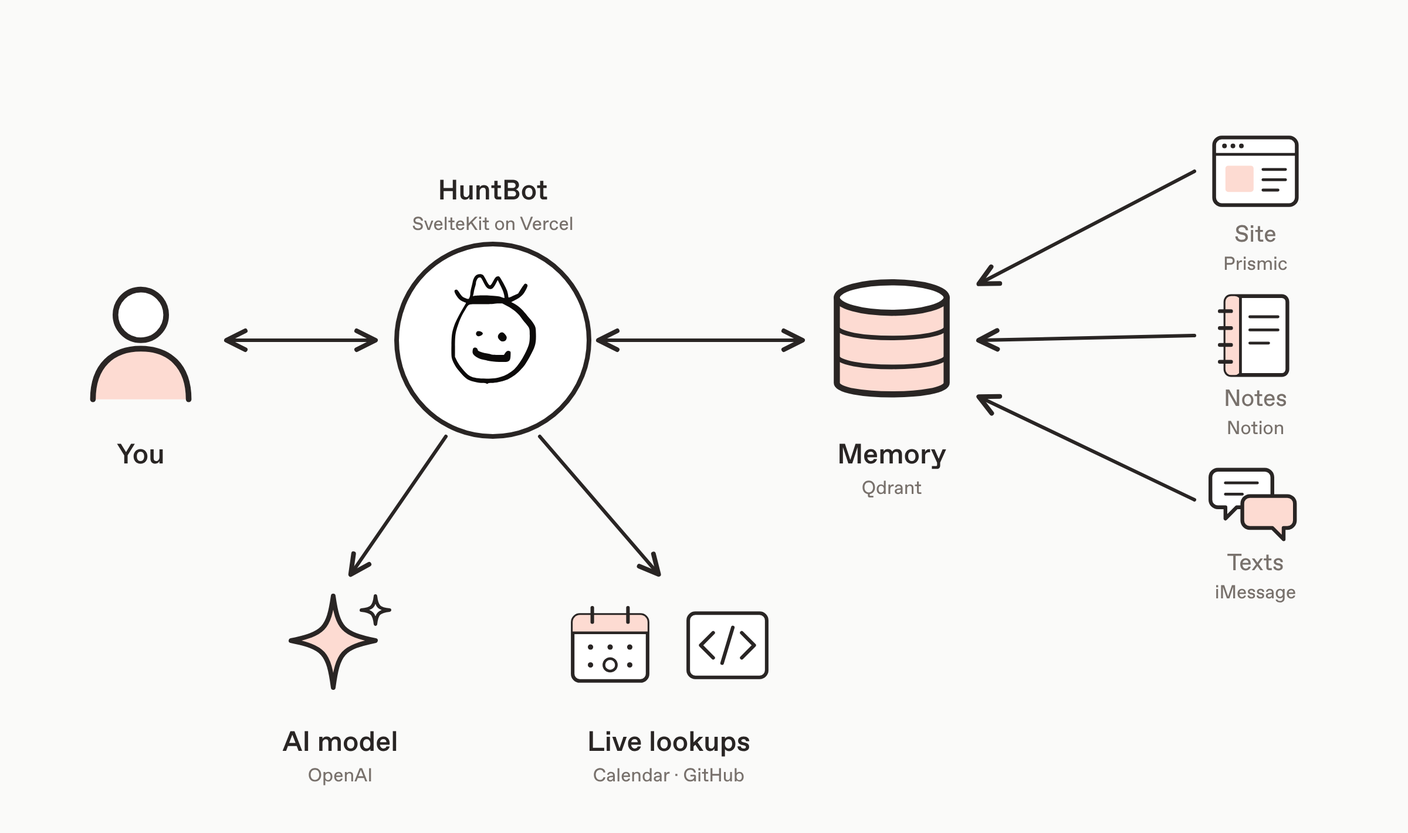
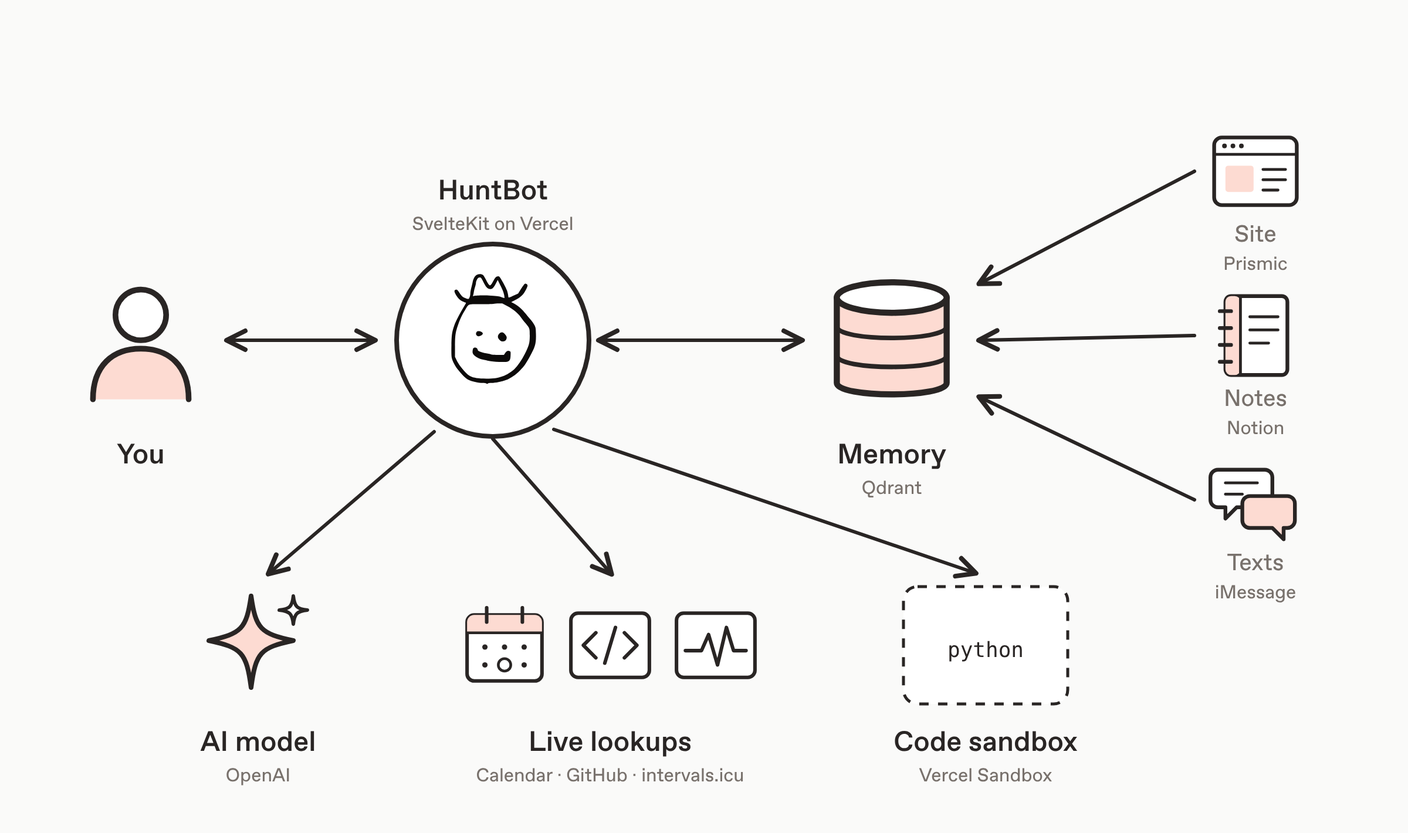
Update Building HuntBot figures for the training tools
- system-map: add intervals.icu to live lookups and the code sandbox.
- step-1-lanes: the standard and deep lanes now run gpt-6.1-sol.
- timeline: count from the full history (the earlier counts came from a
  shallow clone and missed December 2023 and January 2024) and add
  October 2026.
- analysis: new figure showing a training question run as Python in
  the sandbox.

Claude-Session: https://claude.ai/code/session_01UsppEW3vXebrcYxFXbYqoU

diff --git a/docs/site-story/timeline.html b/docs/site-story/timeline.html
@@ -29,7 +29,7 @@ svg { display: block; font-family: Favorit, sans-serif; }
 	</marker>
 </defs>
 
-<path d="M106.42857142857142,400 v-50.12903225806451 a6,6 0 0 1 6,-6 h6 a6,6 0 0 1 6,6 v50.12903225806451 z" fill="#ad6e5e" /><path d="M136.7142857142857,400 v-56.36559139784946 a6,6 0 0 1 6,-6 h6 a6,6 0 0 1 6,6 v56.36559139784946 z" fill="#ad6e5e" /><path d="M167.0,400 v-28.3010752688172 a6,6 0 0 1 6,-6 h6 a6,6 0 0 1 6,6 v28.3010752688172 z" fill="#ad6e5e" /><path d="M742.4285714285713,400 v--1 a6,6 0 0 1 6,-6 h6 a6,6 0 0 1 6,6 v-1 z" fill="#ad6e5e" /><path d="M863.5714285714286,400 v-284.0 a6,6 0 0 1 6,-6 h6 a6,6 0 0 1 6,6 v284.0 z" fill="#ad6e5e" /><path d="M893.8571428571428,400 v-6.473118279569892 a6,6 0 0 1 6,-6 h6 a6,6 0 0 1 6,6 v6.473118279569892 z" fill="#ad6e5e" /><path d="M1014.9999999999999,400 v-68.83870967741936 a6,6 0 0 1 6,-6 h6 a6,6 0 0 1 6,6 v68.83870967741936 z" fill="#ad6e5e" /><path d="M1075.5714285714287,400 v-62.6021505376344 a6,6 0 0 1 6,-6 h6 a6,6 0 0 1 6,6 v62.6021505376344 z" fill="#ad6e5e" /><text x="872.5714285714286" y="96.0" text-anchor="middle" class="small">93 commits</text><line x1="70" y1="400" x2="1130" y2="400" stroke="#292524" stroke-width="3" /><path d="M103.28571428571428,418 v10 H188.14285714285714 v-10" fill="none" stroke="#292524" stroke-width="2.5" /><text x="145.71428571428572" y="462" text-anchor="middle" class="label">Launch</text><path d="M194.14285714285714,418 v10 H733.2857142857142 v-10" fill="none" stroke="#a8a29e" stroke-width="2.5" /><text x="463.71428571428567" y="462" text-anchor="middle" class="note">Quiet stretch</text><path d="M860.4285714285714,418 v10 H914.9999999999999 v-10" fill="none" stroke="#292524" stroke-width="2.5" /><text x="887.7142857142857" y="462" text-anchor="middle" class="label">Rebuild</text><path d="M1011.8571428571428,418 v10 H1096.7142857142858 v-10" fill="none" stroke="#292524" stroke-width="2.5" /><text x="1054.2857142857142" y="462" text-anchor="middle" class="label">Tools + speed</text><line x1="70.0" y1="400" x2="70.0" y2="390" stroke="#292524" stroke-width="3" /><text x="76.0" y="512" text-anchor="start" class="small">2024</text><line x1="433.42857142857144" y1="400" x2="433.42857142857144" y2="390" stroke="#292524" stroke-width="3" /><text x="439.42857142857144" y="512" text-anchor="start" class="small">2025</text><line x1="796.8571428571429" y1="400" x2="796.8571428571429" y2="390" stroke="#292524" stroke-width="3" /><text x="802.8571428571429" y="512" text-anchor="start" class="small">2026</text><circle cx="448.5714285714286" cy="336" r="46" class="ink paper" /><image href="../../src/lib/assets/huntbotlogo.svg" x="395.67142857142863" y="280.8" width="105.8" height="105.8" /><text x="502.5714285714286" y="290" class="label" style="font-size:24px;fill:#a8a29e">z</text><text x="522.5714285714287" y="262" class="label" style="font-size:30px;fill:#a8a29e">z</text><text x="546.5714285714287" y="230" class="label" style="font-size:38px;fill:#a8a29e">z</text>
+<path d="M75.72222222222223,400 v-231.5 a6,6 0 0 1 6,-6 h6 a6,6 0 0 1 6,6 v231.5 z" fill="#ad6e5e" /><path d="M105.16666666666666,400 v-284.0 a6,6 0 0 1 6,-6 h6 a6,6 0 0 1 6,6 v284.0 z" fill="#ad6e5e" /><path d="M134.61111111111111,400 v-41.5 a6,6 0 0 1 6,-6 h6 a6,6 0 0 1 6,6 v41.5 z" fill="#ad6e5e" /><path d="M164.05555555555554,400 v-69.0 a6,6 0 0 1 6,-6 h6 a6,6 0 0 1 6,6 v69.0 z" fill="#ad6e5e" /><path d="M193.5,400 v-21.5 a6,6 0 0 1 6,-6 h6 a6,6 0 0 1 6,6 v21.5 z" fill="#ad6e5e" /><path d="M752.9444444444443,400 v--1 a6,6 0 0 1 6,-6 h6 a6,6 0 0 1 6,6 v-1 z" fill="#ad6e5e" /><path d="M870.7222222222222,400 v-226.5 a6,6 0 0 1 6,-6 h6 a6,6 0 0 1 6,6 v226.5 z" fill="#ad6e5e" /><path d="M900.1666666666665,400 v-4.0 a6,6 0 0 1 6,-6 h6 a6,6 0 0 1 6,6 v4.0 z" fill="#ad6e5e" /><path d="M1017.9444444444443,400 v-54.0 a6,6 0 0 1 6,-6 h6 a6,6 0 0 1 6,6 v54.0 z" fill="#ad6e5e" /><path d="M1076.8333333333333,400 v-161.5 a6,6 0 0 1 6,-6 h6 a6,6 0 0 1 6,6 v161.5 z" fill="#ad6e5e" /><text x="114.16666666666666" y="96.0" text-anchor="middle" class="small">116 commits</text><line x1="70" y1="400" x2="1130" y2="400" stroke="#292524" stroke-width="3" /><path d="M73.0,418 v10 H214.22222222222223 v-10" fill="none" stroke="#292524" stroke-width="2.5" /><text x="143.61111111111111" y="462" text-anchor="middle" class="label">Build + launch</text><path d="M220.22222222222223,418 v10 H744.2222222222221 v-10" fill="none" stroke="#a8a29e" stroke-width="2.5" /><text x="482.2222222222222" y="462" text-anchor="middle" class="note">Quiet stretch</text><path d="M868.0,418 v10 H920.8888888888887 v-10" fill="none" stroke="#292524" stroke-width="2.5" /><text x="894.4444444444443" y="462" text-anchor="middle" class="label">Rebuild</text><path d="M1015.2222222222222,418 v10 H1097.5555555555554 v-10" fill="none" stroke="#292524" stroke-width="2.5" /><text x="1056.3888888888887" y="462" text-anchor="middle" class="label">Tools + data</text><line x1="99.44444444444443" y1="400" x2="99.44444444444443" y2="390" stroke="#292524" stroke-width="3" /><text x="105.44444444444443" y="512" text-anchor="start" class="small">2024</text><line x1="452.77777777777777" y1="400" x2="452.77777777777777" y2="390" stroke="#292524" stroke-width="3" /><text x="458.77777777777777" y="512" text-anchor="start" class="small">2025</text><line x1="806.1111111111111" y1="400" x2="806.1111111111111" y2="390" stroke="#292524" stroke-width="3" /><text x="812.1111111111111" y="512" text-anchor="start" class="small">2026</text><circle cx="467.5" cy="336" r="46" class="ink paper" /><image href="../../src/lib/assets/huntbotlogo.svg" x="414.6" y="280.8" width="105.8" height="105.8" /><text x="521.5" y="290" class="label" style="font-size:24px;fill:#a8a29e">z</text><text x="541.5" y="262" class="label" style="font-size:30px;fill:#a8a29e">z</text><text x="565.5" y="230" class="label" style="font-size:38px;fill:#a8a29e">z</text>
 </svg>
 </body>
 </html>

diff --git a/docs/site-story/system-map.html b/docs/site-story/system-map.html
@@ -52,19 +52,21 @@ svg { display: block; font-family: Favorit, sans-serif; }
 		<line x1="44" y1="58" x2="64" y2="58" class="ink thin" /></g><text x="1070" y="346" text-anchor="middle" class="note">Notes</text><text x="1070" y="370" text-anchor="middle" class="small">Notion</text><line x1="1018" y1="286" x2="836" y2="290.0" stroke="#292524" stroke-width="3" stroke-linecap="round" marker-end="url(#head)" /><g transform="translate(1030.0,386.0) scale(0.8)">
 		<path d="M10,18 h50 a8,8 0 0 1 8,8 v24 a8,8 0 0 1 -8,8 h-30 l-12,12 v-12 h-8 a8,8 0 0 1 -8,-8 v-24 a8,8 0 0 1 8,-8 z" class="ink paper" />
 		<path d="M44,46 h40 a8,8 0 0 1 8,8 v18 a8,8 0 0 1 -8,8 h-4 v12 l-12,-12 h-24 a8,8 0 0 1 -8,-8 v-18 a8,8 0 0 1 8,-8 z" class="ink fill" />
-		<line x1="18" y1="32" x2="52" y2="32" class="ink thin" /><line x1="18" y1="44" x2="36" y2="44" class="ink thin" /></g><text x="1070" y="486" text-anchor="middle" class="note">Texts</text><text x="1070" y="510" text-anchor="middle" class="small">iMessage</text><line x1="1018" y1="426" x2="836" y2="339.0" stroke="#292524" stroke-width="3" stroke-linecap="round" marker-end="url(#head)" /><line x1="380" y1="372" x2="300" y2="488" stroke="#292524" stroke-width="3" stroke-linecap="round" marker-end="url(#head)" /><line x1="460" y1="372" x2="560" y2="488" stroke="#292524" stroke-width="3" stroke-linecap="round" marker-end="url(#head)" /><g transform="translate(240.0,500.0) scale(1.0)">
+		<line x1="18" y1="32" x2="52" y2="32" class="ink thin" /><line x1="18" y1="44" x2="36" y2="44" class="ink thin" /></g><text x="1070" y="486" text-anchor="middle" class="note">Texts</text><text x="1070" y="510" text-anchor="middle" class="small">iMessage</text><line x1="1018" y1="426" x2="836" y2="339.0" stroke="#292524" stroke-width="3" stroke-linecap="round" marker-end="url(#head)" /><line x1="370" y1="368" x2="230" y2="488" stroke="#292524" stroke-width="3" stroke-linecap="round" marker-end="url(#head)" /><line x1="420" y1="374" x2="520" y2="488" stroke="#292524" stroke-width="3" stroke-linecap="round" marker-end="url(#head)" /><line x1="472" y1="366" x2="830" y2="488" stroke="#292524" stroke-width="3" stroke-linecap="round" marker-end="url(#head)" /><g transform="translate(170.0,500.0) scale(1.0)">
 		<path d="M44,8 C48,36 52,40 80,46 C52,52 48,56 44,86 C40,56 36,52 8,46 C36,40 40,36 44,8 z" class="ink fill" />
-		<path d="M80,8 C81,17 83,19 92,20 C83,21 81,23 80,32 C79,23 77,21 68,20 C77,19 79,17 80,8 z" class="ink thin paper" /></g><text x="290" y="640" text-anchor="middle" class="label">AI model</text><text x="290" y="666" text-anchor="middle" class="small">OpenAI</text><g transform="translate(482.0,512.0) scale(0.76)">
+		<path d="M80,8 C81,17 83,19 92,20 C83,21 81,23 80,32 C79,23 77,21 68,20 C77,19 79,17 80,8 z" class="ink thin paper" /></g><text x="220" y="640" text-anchor="middle" class="label">AI model</text><text x="220" y="666" text-anchor="middle" class="small">OpenAI</text><g transform="translate(392.0,512.0) scale(0.76)">
 		<rect x="8" y="16" width="84" height="74" rx="8" class="ink paper" />
 		<path d="M8,36 v-12 a8,8 0 0 1 8,-8 h68 a8,8 0 0 1 8,8 v12 z" class="fill" />
 		<line x1="8" y1="36" x2="92" y2="36" class="ink thin" />
 		<line x1="30" y1="8" x2="30" y2="24" class="ink" /><line x1="70" y1="8" x2="70" y2="24" class="ink" />
 		<circle cx="28" cy="52" r="3" fill="#292524" /><circle cx="50" cy="52" r="3" fill="#292524" /><circle cx="72" cy="52" r="3" fill="#292524" />
-		<circle cx="28" cy="72" r="3" fill="#292524" /><circle cx="50" cy="72" r="7" class="ink thin" stroke="#ad6e5e" /><circle cx="72" cy="72" r="3" fill="#292524" /></g><g transform="translate(582.0,512.0) scale(0.76)">
+		<circle cx="28" cy="72" r="3" fill="#292524" /><circle cx="50" cy="72" r="7" class="ink thin" stroke="#ad6e5e" /><circle cx="72" cy="72" r="3" fill="#292524" /></g><g transform="translate(482.0,512.0) scale(0.76)">
 		<rect x="6" y="14" width="88" height="72" rx="8" class="ink paper" />
 		<polyline points="34,36 20,50 34,64" class="ink" />
 		<polyline points="66,36 80,50 66,64" class="ink" />
-		<line x1="56" y1="30" x2="44" y2="70" class="ink" stroke="#ad6e5e" /></g><text x="570" y="640" text-anchor="middle" class="label">Live lookups</text><text x="570" y="666" text-anchor="middle" class="small">Calendar · GitHub</text>
+		<line x1="56" y1="30" x2="44" y2="70" class="ink" stroke="#ad6e5e" /></g><g transform="translate(572.0,512.0) scale(0.76)">
+		<rect x="6" y="14" width="88" height="72" rx="8" class="ink paper" />
+		<polyline points="16,56 34,56 42,38 52,72 62,30 70,56 84,56" class="ink" stroke="#ad6e5e" /></g><text x="520" y="640" text-anchor="middle" class="label">Live lookups</text><text x="520" y="666" text-anchor="middle" class="small">Calendar · GitHub · intervals.icu</text><rect x="770" y="500" width="140" height="100" rx="12" fill="#fff" stroke="#292524" stroke-width="2.5" stroke-dasharray="8 8" /><text x="840" y="560" text-anchor="middle" class="mono">python</text><text x="840" y="640" text-anchor="middle" class="label">Code sandbox</text><text x="840" y="666" text-anchor="middle" class="small">Vercel Sandbox</text>
 </svg>
 </body>
 </html>

diff --git a/docs/site-story/analysis.html b/docs/site-story/analysis.html
@@ -1,0 +1,39 @@
+<!doctype html>
+<html>
+<head>
+<meta charset="utf-8" />
+<!-- Generated by build.py. Edit that, not this. -->
+<style>
+@font-face { font-family: Favorit; src: url('../../src/lib/assets/fonts/FavoritStd-Medium.otf'); font-weight: 500; }
+@font-face { font-family: Favorit; src: url('../../src/lib/assets/fonts/FavoritStd-Regular.otf'); font-weight: 400; }
+html, body { margin: 0; background: #fafaf9; }
+svg { display: block; font-family: Favorit, sans-serif; }
+.ink { fill: none; stroke: #292524; stroke-width: 4; stroke-linecap: round; stroke-linejoin: round; }
+.thin { stroke-width: 3; }
+.fill { fill: #fddbd2; }
+.paper { fill: #ffffff; }
+.dash { stroke-dasharray: 2 12; }
+.title { font-size: 28px; font-weight: 500; fill: #292524; }
+.label { font-size: 24px; font-weight: 500; fill: #292524; }
+.note { font-size: 20px; fill: #78716c; }
+.small { font-size: 16px; fill: #78716c; }
+.mono { font-family: ui-monospace, 'DejaVu Sans Mono', monospace; font-size: 18px; fill: #292524; }
+</style>
+</head>
+<body>
+<svg width="1200" height="450" viewBox="0 0 1200 450" xmlns="http://www.w3.org/2000/svg">
+
+<defs>
+	<marker id="head" viewBox="0 0 12 12" refX="9" refY="6" markerWidth="8" markerHeight="8" orient="auto-start-reverse">
+		<path d="M2,2 L10,6 L2,10" fill="none" stroke="#292524" stroke-width="2" stroke-linecap="round" stroke-linejoin="round" />
+	</marker>
+</defs>
+
+<text x="110" y="110" text-anchor="middle" class="label">Model</text><g transform="translate(60.0,180.0) scale(1.0)">
+		<path d="M44,8 C48,36 52,40 80,46 C52,52 48,56 44,86 C40,56 36,52 8,46 C36,40 40,36 44,8 z" class="ink fill" />
+		<path d="M80,8 C81,17 83,19 92,20 C83,21 81,23 80,32 C79,23 77,21 68,20 C77,19 79,17 80,8 z" class="ink thin paper" /></g><line x1="170" y1="230" x2="206" y2="230" stroke="#292524" stroke-width="3" stroke-linecap="round" marker-end="url(#head)" /><text x="362" y="110" text-anchor="middle" class="label">Python script</text><rect x="214" y="166" width="296" height="128" rx="12" fill="#fff" stroke="#292524" stroke-width="2.5" /><text x="236" y="204" text-anchor="start" class="mono">import csv</text><text x="236" y="234" text-anchor="start" class="mono">rows = csv.DictReader(</text><text x="236" y="264" text-anchor="start" class="mono" xml:space="preserve">  open('weekly.csv'))</text><line x1="518" y1="230" x2="550" y2="230" stroke="#292524" stroke-width="3" stroke-linecap="round" marker-end="url(#head)" /><text x="725.0" y="110" text-anchor="middle" class="label">Sandbox</text><rect x="560" y="138" width="330" height="184" rx="16" fill="none" stroke="#292524" stroke-width="2.5" stroke-dasharray="8 8" /><rect x="590" y="164" width="180" height="36" rx="18.0" fill="#fff" stroke="#292524" stroke-width="2" /><text x="680.0" y="188.0" text-anchor="middle" class="small">weekly.csv</text><rect x="590" y="212" width="180" height="36" rx="18.0" fill="#fff" stroke="#292524" stroke-width="2" /><text x="680.0" y="236.0" text-anchor="middle" class="small">activities.csv</text><rect x="590" y="260" width="180" height="36" rx="18.0" fill="#fddbd2" stroke="#292524" stroke-width="2" /><text x="680.0" y="284.0" text-anchor="middle" class="small">wellness.csv</text><text x="830" y="236" text-anchor="middle" class="small">+ API</text><line x1="898" y1="190" x2="1004" y2="190" stroke="#292524" stroke-width="3" stroke-linecap="round" marker-start="url(#head)" marker-end="url(#head)" /><g transform="translate(1030.0,140.0) scale(1.0)">
+		<rect x="6" y="14" width="88" height="72" rx="8" class="ink paper" />
+		<polyline points="16,56 34,56 42,38 52,72 62,30 70,56 84,56" class="ink" stroke="#ad6e5e" /></g><text x="1080" y="270" text-anchor="middle" class="label">intervals.icu</text><text x="1080" y="296" text-anchor="middle" class="small">read-only, his data</text><path d="M725.0,330 V366 Q725.0,380 711.0,380 H124 Q110,380 110,366 V292" fill="none" stroke="#292524" stroke-width="3" stroke-linecap="round" marker-end="url(#head)" /><text x="560" y="420" text-anchor="middle" class="note">Only what the script prints goes back to the model</text>
+</svg>
+</body>
+</html>

diff --git a/docs/site-story/step-1-lanes.html b/docs/site-story/step-1-lanes.html
@@ -32,7 +32,7 @@ svg { display: block; font-family: Favorit, sans-serif; }
 <text x="50" y="92" text-anchor="start" class="title">1  Pick a lane</text><g transform="translate(85.0,265.0) scale(1.3)">
 		<path d="M12,12 h76 a10,10 0 0 1 10,10 v40 a10,10 0 0 1 -10,10 h-46 l-18,16 v-16 h-12 a10,10 0 0 1 -10,-10 v-40 a10,10 0 0 1 10,-10 z" class="ink paper" />
 		<path d="M41,32 c0,-8 18,-10 18,0 c0,7 -9,7 -9,15" class="ink" stroke="#ad6e5e" />
-		<circle cx="50" cy="58" r="3" fill="#ad6e5e" /></g><line x1="232" y1="330" x2="412" y2="200" stroke="#292524" stroke-width="3" stroke-linecap="round" marker-end="url(#head)" /><rect x="420" y="154" width="430" height="92" rx="46" fill="#fff" stroke="#292524" stroke-width="2.5" /><rect x="458" y="204" width="8" height="10" rx="2" fill="#292524" /><rect x="471" y="195" width="8" height="19" rx="2" fill="#d6d3d1" /><rect x="484" y="186" width="8" height="28" rx="2" fill="#d6d3d1" /><text x="518" y="198" text-anchor="start" class="label">quick</text><text x="518" y="226" text-anchor="start" class="small">gpt-6-luna</text><line x1="232" y1="330" x2="412" y2="330" stroke="#292524" stroke-width="3" stroke-linecap="round" marker-end="url(#head)" /><rect x="420" y="284" width="430" height="92" rx="46" fill="#fddbd2" stroke="#292524" stroke-width="2.5" /><rect x="458" y="334" width="8" height="10" rx="2" fill="#292524" /><rect x="471" y="325" width="8" height="19" rx="2" fill="#292524" /><rect x="484" y="316" width="8" height="28" rx="2" fill="#d6d3d1" /><text x="518" y="328" text-anchor="start" class="label">standard</text><text x="518" y="356" text-anchor="start" class="small">gpt-6-astra, low effort</text><line x1="232" y1="330" x2="412" y2="460" stroke="#292524" stroke-width="3" stroke-linecap="round" marker-end="url(#head)" /><rect x="420" y="414" width="430" height="92" rx="46" fill="#fff" stroke="#292524" stroke-width="2.5" /><rect x="458" y="464" width="8" height="10" rx="2" fill="#292524" /><rect x="471" y="455" width="8" height="19" rx="2" fill="#292524" /><rect x="484" y="446" width="8" height="28" rx="2" fill="#292524" /><text x="518" y="458" text-anchor="start" class="label">deep</text><text x="518" y="486" text-anchor="start" class="small">gpt-6-astra, medium effort</text>
+		<circle cx="50" cy="58" r="3" fill="#ad6e5e" /></g><line x1="232" y1="330" x2="412" y2="200" stroke="#292524" stroke-width="3" stroke-linecap="round" marker-end="url(#head)" /><rect x="420" y="154" width="430" height="92" rx="46" fill="#fff" stroke="#292524" stroke-width="2.5" /><rect x="458" y="204" width="8" height="10" rx="2" fill="#292524" /><rect x="471" y="195" width="8" height="19" rx="2" fill="#d6d3d1" /><rect x="484" y="186" width="8" height="28" rx="2" fill="#d6d3d1" /><text x="518" y="198" text-anchor="start" class="label">quick</text><text x="518" y="226" text-anchor="start" class="small">gpt-6-luna</text><line x1="232" y1="330" x2="412" y2="330" stroke="#292524" stroke-width="3" stroke-linecap="round" marker-end="url(#head)" /><rect x="420" y="284" width="430" height="92" rx="46" fill="#fddbd2" stroke="#292524" stroke-width="2.5" /><rect x="458" y="334" width="8" height="10" rx="2" fill="#292524" /><rect x="471" y="325" width="8" height="19" rx="2" fill="#292524" /><rect x="484" y="316" width="8" height="28" rx="2" fill="#d6d3d1" /><text x="518" y="328" text-anchor="start" class="label">standard</text><text x="518" y="356" text-anchor="start" class="small">gpt-6.1-sol, low effort</text><line x1="232" y1="330" x2="412" y2="460" stroke="#292524" stroke-width="3" stroke-linecap="round" marker-end="url(#head)" /><rect x="420" y="414" width="430" height="92" rx="46" fill="#fff" stroke="#292524" stroke-width="2.5" /><rect x="458" y="464" width="8" height="10" rx="2" fill="#292524" /><rect x="471" y="455" width="8" height="19" rx="2" fill="#292524" /><rect x="484" y="446" width="8" height="28" rx="2" fill="#292524" /><text x="518" y="458" text-anchor="start" class="label">deep</text><text x="518" y="486" text-anchor="start" class="small">gpt-6.1-sol, medium effort</text>
 </svg>
 </body>
 </html>

diff --git a/docs/site-story/build.py b/docs/site-story/build.py
@@ -21,17 +21,21 @@ MUD = "#ad6e5e"
 MUD_LIGHT = "#fddbd2"
 PAPER = "#fafaf9"
 
-# Commits per month, from:
-#   git log --format='%ad' --date=format:'%Y-%m' | sort | uniq -c
+# Commits per month on main, merges included, from:
+#   git log origin/main --format='%ad' --date=format:'%Y-%m' | sort | uniq -c
+# Cloud sessions clone shallowly, so run `git fetch --unshallow origin main` first or the early
+# months come out short.
 COMMITS = {
-	"2024-02": 18,
-	"2024-03": 20,
+	"2023-12": 95,
+	"2024-01": 116,
+	"2024-02": 19,
+	"2024-03": 30,
 	"2024-04": 11,
 	"2025-11": 1,
 	"2026-03": 93,
 	"2026-04": 4,
 	"2026-08": 24,
-	"2026-10": 22,
+	"2026-10": 67,
 }
 
 DEFS = f"""
@@ -150,6 +154,9 @@ ICONS = {
 		<path d="M50,6 L94,50 L50,94 L6,50 Z" class="ink paper" />
 		<path d="M41,38 c0,-8 18,-10 18,0 c0,7 -9,7 -9,15" class="ink" stroke="{mud}" />
 		<circle cx="50" cy="65" r="3" fill="{mud}" />""",
+	"pulse": """
+		<rect x="6" y="14" width="88" height="72" rx="8" class="ink paper" />
+		<polyline points="16,56 34,56 42,38 52,72 62,30 70,56 84,56" class="ink" stroke="{mud}" />""",
 	"blocks": """
 		<rect x="8" y="8" width="84" height="56" rx="6" class="ink paper" />
 		<line x1="20" y1="24" x2="78" y2="24" class="ink thin" /><line x1="20" y1="36" x2="78" y2="36" class="ink thin" />
@@ -254,15 +261,21 @@ def system_map():
 		parts.append(line(1018, y - 14, 836, 290 + (y - 300) * 0.35))
 	# What HuntBot uses directly, below it
 	parts += [
-		line(380, 372, 300, 488),
-		line(460, 372, 560, 488),
-		icon("sparkle", 290, 550, 100),
-		text(290, 640, "AI model"),
-		text(290, 666, "OpenAI", cls="small"),
-		icon("calendar", 520, 550, 76),
-		icon("code", 620, 550, 76),
-		text(570, 640, "Live lookups"),
-		text(570, 666, "Calendar · GitHub", cls="small"),
+		line(370, 368, 230, 488),
+		line(420, 374, 520, 488),
+		line(472, 366, 830, 488),
+		icon("sparkle", 220, 550, 100),
+		text(220, 640, "AI model"),
+		text(220, 666, "OpenAI", cls="small"),
+		icon("calendar", 430, 550, 76),
+		icon("code", 520, 550, 76),
+		icon("pulse", 610, 550, 76),
+		text(520, 640, "Live lookups"),
+		text(520, 666, "Calendar · GitHub · intervals.icu", cls="small"),
+		f'<rect x="770" y="500" width="140" height="100" rx="12" fill="#fff" stroke="{INK}" stroke-width="2.5" stroke-dasharray="8 8" />',
+		text(840, 560, "python", cls="mono"),
+		text(840, 640, "Code sandbox"),
+		text(840, 666, "Vercel Sandbox", cls="small"),
 	]
 	return page(1200, 710, "".join(parts))
 
@@ -322,7 +335,7 @@ def slide(title, body):
 
 def slide_lanes():
 	parts = [icon("ask", 150, 330, 130)]
-	lanes = [("quick", 1, "gpt-6-luna"), ("standard", 2, "gpt-6-astra, low effort"), ("deep", 3, "gpt-6-astra, medium effort")]
+	lanes = [("quick", 1, "gpt-6-luna"), ("standard", 2, "gpt-6.1-sol, low effort"), ("deep", 3, "gpt-6.1-sol, medium effort")]
 	for k, (lane, bars, model) in enumerate(lanes):
 		y = 200 + k * 130
 		fill = MUD_LIGHT if lane == "standard" else "#fff"
@@ -492,11 +505,45 @@ def tool_loop():
 	return page(1200, 410, "".join(parts))
 
 
+# ---------------------------------------------------------------- training analysis
+
+
+def analysis():
+	y = 230
+	sx, sw = 560, 330  # the sandbox
+	parts = [
+		text(110, 110, "Model"),
+		icon("sparkle", 110, y, 100),
+		line(170, y, 206, y),
+		text(362, 110, "Python script"),
+		f'<rect x="214" y="{y - 64}" width="296" height="128" rx="12" fill="#fff" stroke="{INK}" stroke-width="2.5" />',
+		text(236, y - 26, "import csv", cls="mono", anchor="start"),
+		text(236, y + 4, "rows = csv.DictReader(", cls="mono", anchor="start"),
+		text(236, y + 34, "  open('weekly.csv'))", cls="mono", anchor="start", extra=' xml:space="preserve"'),
+		line(518, y, sx - 10, y),
+		# The sandbox: preloaded files inside, network shut except one host
+		text(sx + sw / 2, 110, "Sandbox"),
+		f'<rect x="{sx}" y="{y - 92}" width="{sw}" height="184" rx="16" fill="none" stroke="{INK}" stroke-width="2.5" stroke-dasharray="8 8" />',
+		pill(sx + 30, y - 66, 180, 36, "weekly.csv"),
+		pill(sx + 30, y - 18, 180, 36, "activities.csv"),
+		pill(sx + 30, y + 30, 180, 36, "wellness.csv", fill="mud"),
+		text(sx + 270, y + 6, "+ API", cls="small"),
+		line(sx + sw + 8, y - 40, 1004, y - 40, both=True),
+		icon("pulse", 1080, y - 40, 100),
+		text(1080, y + 40, "intervals.icu"),
+		text(1080, y + 66, "read-only, his data", cls="small"),
+		# Only what the script prints goes back
+		f'<path d="M{sx + sw / 2},{y + 100} V{y + 136} Q{sx + sw / 2},{y + 150} {sx + sw / 2 - 14},{y + 150} H124 Q110,{y + 150} 110,{y + 136} V{y + 62}" fill="none" stroke="{INK}" stroke-width="3" stroke-linecap="round" marker-end="url(#head)" />',
+		text(560, y + 190, "Only what the script prints goes back to the model", cls="note"),
+	]
+	return page(1200, 450, "".join(parts))
+
+
 # ---------------------------------------------------------------- timeline
 
 
 def timeline():
-	months = [(y, m) for y in (2024, 2025, 2026) for m in range(1, 13)][:35]  # Jan 2024 to Nov 2026
+	months = [(2023, 12)] + [(y, m) for y in (2024, 2025, 2026) for m in range(1, 13)][:35]  # Dec 2023 to Nov 2026
 	x0, x1, base, top = 70, 1130, 400, 110
 	step_w = (x1 - x0) / len(months)
 	scale = (base - top) / max(COMMITS.values())
@@ -522,10 +569,10 @@ def timeline():
 			+ text((a + b) / 2, base + 62, label, cls="note" if muted else "label")
 		)
 
-	parts.append(era("2024-02", "2024-04", "Launch"))
+	parts.append(era("2023-12", "2024-04", "Build + launch"))
 	parts.append(era("2024-05", "2025-10", "Quiet stretch", muted=True))
 	parts.append(era("2026-03", "2026-04", "Rebuild"))
-	parts.append(era("2026-08", "2026-10", "Tools + speed"))
+	parts.append(era("2026-08", "2026-10", "Tools + data"))
 
 	for year in (2024, 2025, 2026):
 		x = mx(f"{year}-01") - step_w / 2
@@ -550,6 +597,7 @@ for name, build in {
 	"step-5-check": slide_check,
 	"hyde": hyde,
 	"tool-loop": tool_loop,
+	"analysis": analysis,
 	"timeline": timeline,
 }.items():
 	(HERE / f"{name}.html").write_text(build())

diff --git a/docs/site-story/README.md b/docs/site-story/README.md
@@ -17,6 +17,7 @@ of a few words. Explanations belong in the post, not the image.
 | `step-1-lanes` … `step-5-check` | Carousel slides, one small concept per pipeline step |
 | `hyde` | Searching with the question vs. with a HyDE draft |
 | `tool-loop` | How a tool call works |
+| `analysis` | How a training question runs as Python in the sandbox |
 | `timeline` | Commits per month, with each era marked |
 
 Slides are 3:2 so the page's carousel shows them whole on desktop; mobile trims the top
@@ -25,7 +26,7 @@ and bottom a little, so keep slide content between y=60 and y=540.
 ## Updating
 
 1. Edit `build.py`. For the timeline, update `COMMITS` (the command to get the
-   counts is in the file).
+   counts is in the file; unshallow the clone first).
 2. Run `./render.sh` (pass a Chromium path if `chromium` isn't on your PATH). It
    renders every `.html` file at 2x into a PNG next to it, sized from its `<svg>`. Needs Python with Pillow.
 3. Upload the new PNG to Prismic and swap it into the page's image slice, then
